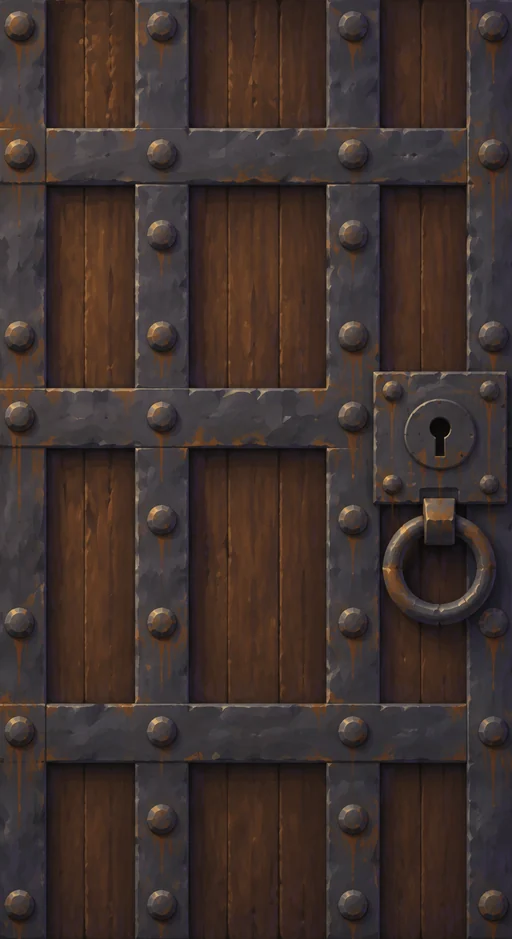
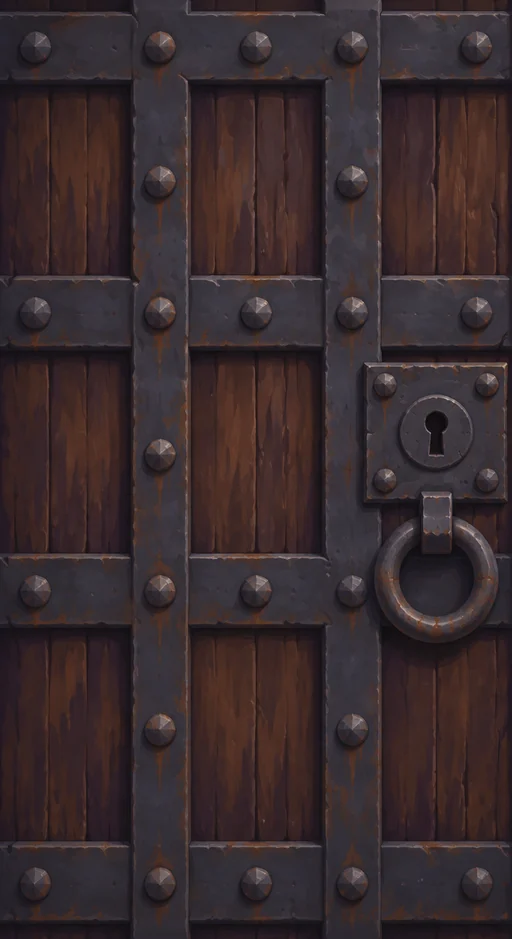
Use the owner's picks for the torch and the two door fronts [mw-546]
Torch variant b (regenerated, its wall plate on -z, turned 90 degrees to meet the wall), wooden door a
and iron door a; the brazier stays variant b.

diff --git a/src/render/props/set-pieces.ts b/src/render/props/set-pieces.ts
@@ -2,7 +2,7 @@
 // props, loaded once and shared by every torch and brazier. The flame and the light come from the
 // light rig at the spawn point (src/render/light), so the models carry no fire: a torch's head ends just
 // below the spawn point (the flame sits on it) and a brazier rim just above it (the flame burns in the
-// coals, so a brazier spawns at the height of its coals, not on the floor). A wall torch arrives with its
+// coals, so a brazier spawns at the height of its coals, not on the floor). A wall torch is placed with its
 // wall plate on −x; the greybox view turns it to face the room from whichever side wall it hangs on.
 //
 // Render-only (needs a GPU context to draw), so it is excluded from unit coverage and verified by the
@@ -13,9 +13,12 @@ import { placeGeometry, readGlbMesh, type GlbModel, type Placement } from '../mo
 export const TORCH_URL = '/assets/model/model-prop-wall-torch-01.glb';
 export const BRAZIER_URL = '/assets/model/model-prop-brazier-floor-01.glb';
 
-/** The torch: 0.7 m tall, its head 5 cm under the spawn point; the wall plate stays on −x. */
+/**
+ * The torch: 0.7 m tall, its head 5 cm under the spawn point. Tripo leaves its wall plate on −z; the
+ * 90° turn about y puts it on −x, where the greybox view expects it.
+ */
 export const TORCH_PLACEMENT: Placement = {
-  rotateDeg: [0, 0, 0],
+  rotateDeg: [0, 90, 0],
   length: 0.7,
   anchor: 'top',
   offset: [0, -0.05, 0],

diff --git a/assets/prompts/model/model-prop-wall-torch-01.md b/assets/prompts/model/model-prop-wall-torch-01.md
@@ -4,16 +4,17 @@
 
 ## Generation
 
-- Source: `prop-wall-torch-01` variant a (`assets/prompts/props/prop-wall-torch-01.md`).
+- Source: `prop-wall-torch-01` variant **b**, the owner's choice (`assets/prompts/props/prop-wall-torch-01.md`).
+  Variant a was modelled first (job `e4284410-12f9-42c8-bb91-dff441f9a3ec`, 1,478 triangles) and replaced.
 - Tripo H3.1 through Higgsfield `generate_3d`, plan Plus, 2026-10-03, 9 credits. Job
-  `e4284410-12f9-42c8-bb91-dff441f9a3ec`; `face_limit` 1500, `texture` true, `pbr` false, `auto_size` true.
-- Raw result: 1,478 triangles, one material, 0.5 m tall, wall plate on −x, head up. No flame (the flame is
+  `7c4bff2b-6088-4c6b-a717-29b8311bb603`; `face_limit` 1500, `texture` true, `pbr` false, `auto_size` true.
+- Raw result: 1,422 triangles, one material, 0.5 m tall, wall plate on −z, head up. No flame (the flame is
   the light rig's sphere at the spawn point).
 
 ## Processing
 
-1. `gltf-transform optimize … --texture-size 512` → `public/assets/model/model-prop-wall-torch-01.glb` (29 KB).
-2. At load (`TORCH_PLACEMENT`, `src/render/props/set-pieces.ts`): scaled to 0.7 m, its head 5 cm under the
+1. `gltf-transform optimize … --texture-size 512` → `public/assets/model/model-prop-wall-torch-01.glb` (33 KB).
+2. At load (`TORCH_PLACEMENT`, `src/render/props/set-pieces.ts`): turned 90° about y (plate −z to −x), scaled to 0.7 m, its head 5 cm under the
    spawn point so the flame sits on it. `src/render/greybox/index.ts` swaps it in for the bracket stand-in on
    spawns tagged `torch` (the stand-in stays if it fails to load) and turns it 180° for a torch east of
    the room's centreline so the wall plate meets the wall.

diff --git a/assets/prompts/props/prop-door-wood-01.md b/assets/prompts/props/prop-door-wood-01.md
@@ -1,6 +1,6 @@
 # prop-door-wood-01: the spawn room's wooden door front (texture)
 
-**Status: candidates, awaiting owner approval** (mw-546 set pieces). Used as the painted front of the `wooden-door` leaf (variant b, which also shows a latch plate).
+**Status: candidates, awaiting owner approval** (mw-546 set pieces). Owner chose variant a (2026-10-03): used as the painted front of the `wooden-door` leaf (variant b, with a latch plate, was used first and replaced).
 
 | Field | Value |
 |---|---|

diff --git a/assets/prompts/props/prop-door-iron-01.md b/assets/prompts/props/prop-door-iron-01.md
@@ -1,6 +1,6 @@
 # prop-door-iron-01: the arena's locked iron door front (texture)
 
-**Status: candidates, awaiting owner approval** (mw-546 set pieces). Used as the painted front of the `iron-door` leaf (variant b, the heavier riveted grid).
+**Status: candidates, awaiting owner approval** (mw-546 set pieces). Owner chose variant a (2026-10-03): used as the painted front of the `iron-door` leaf (variant b, the greyer riveted grid, was used first and replaced).
 
 | Field | Value |
 |---|---|

diff --git a/assets/prompts/props/prop-brazier-floor-01.md b/assets/prompts/props/prop-brazier-floor-01.md
@@ -1,6 +1,6 @@
 # prop-brazier-floor-01: the arena's floor brazier (unlit)
 
-**Status: candidates, awaiting owner approval** (mw-546 set pieces). Modelled (variant b: three chunky legs model cleanly).
+**Status: candidates, awaiting owner approval** (mw-546 set pieces). Owner chose variant b (2026-10-03); modelled from it (three chunky legs model cleanly).
 
 | Field | Value |
 |---|---|

diff --git a/assets/prompts/props/prop-wall-torch-01.md b/assets/prompts/props/prop-wall-torch-01.md
@@ -1,6 +1,6 @@
 # prop-wall-torch-01: the slice's wall torch (unlit)
 
-**Status: candidates, awaiting owner approval** (mw-546 set pieces). Modelled (variant a).
+**Status: candidates, awaiting owner approval** (mw-546 set pieces). Owner chose variant b (2026-10-03); modelled from it. Variant a was modelled first and replaced.
 
 | Field | Value |
 |---|---|
